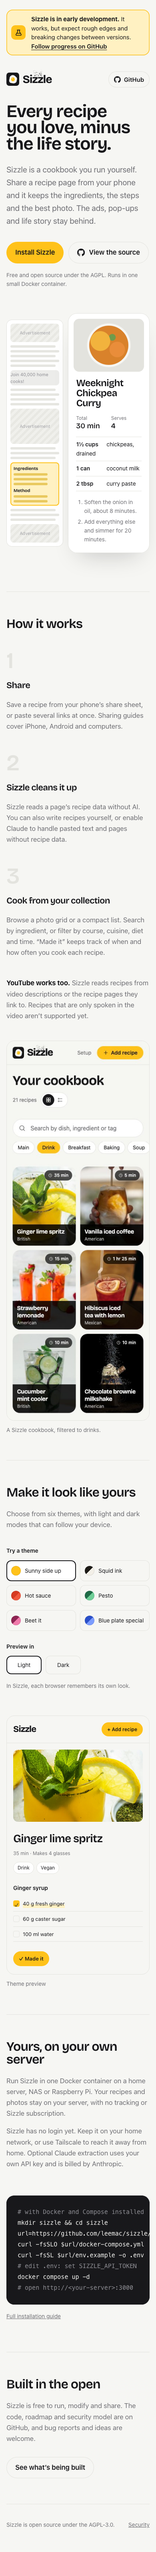
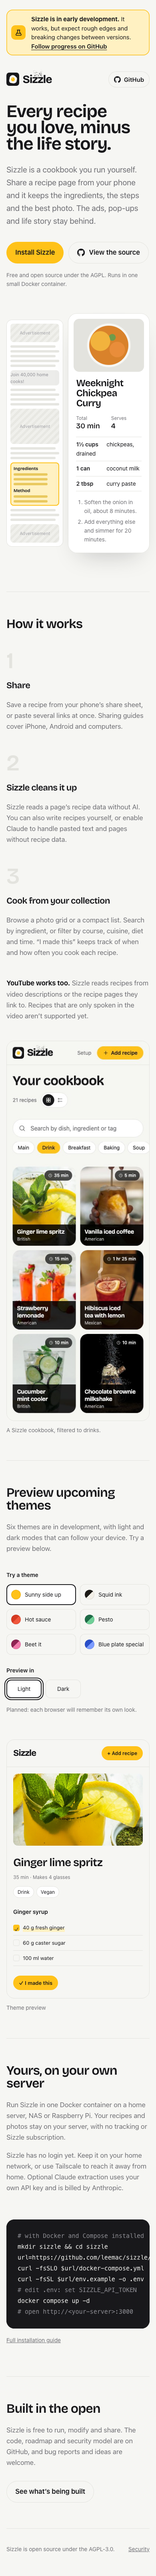
Refresh cookbook screenshots and align marketing documentation

Changed region(s): [[0.0308, 0.0, 0.9231, 0.9645], [0.3692, 0.2178, 0.4308, 0.2489], [0.7385, 0.0, 0.7692, 0.0311]]

diff --git a/site/index.html b/site/index.html
@@ -140,7 +140,7 @@
             <h3>Cook from your collection</h3>
             <p>
               Browse a photo grid or a compact list. Search by ingredient, or filter by course, cuisine, diet and time.
-              “Made it” keeps track of when and how often you cook each recipe.
+              “I made this” keeps track of when and how often you cook each recipe.
             </p>
           </li>
         </ol>
@@ -150,12 +150,12 @@
         </p>
         <figure class="cookbook">
           <picture class="cookbook-screen">
-            <source media="(max-width: 480px)" srcset="/images/cookbook-phone.jpg" width="390" height="1400" />
+            <source media="(max-width: 480px)" srcset="/images/cookbook-phone.jpg?v=2" width="390" height="1064" />
             <img
-              src="/images/cookbook.jpg"
+              src="/images/cookbook.jpg?v=2"
               alt="Sizzle’s cookbook with a recipe search, course filters and a photo gallery of drinks."
               width="1280"
-              height="1400"
+              height="1160"
               loading="lazy"
               decoding="async"
             />
@@ -165,8 +165,10 @@
       </section>
 
       <section class="themes" id="themes" aria-labelledby="themes-heading">
-        <h2 id="themes-heading">Make it look like yours</h2>
-        <p class="section-intro">Choose from six themes, with light and dark modes that can follow your device.</p>
+        <h2 id="themes-heading">Preview upcoming themes</h2>
+        <p class="section-intro">
+          Six themes are in development, with light and dark modes that can follow your device. Try a preview below.
+        </p>
         <div class="theme-explorer">
           <div class="theme-controls">
             <fieldset class="theme-options">
@@ -235,13 +237,13 @@
                 <label><input type="radio" name="preview-mode" value="dark" />Dark</label>
               </div>
             </fieldset>
-            <p class="fineprint">In Sizzle, each browser remembers its own look.</p>
+            <p class="fineprint">Planned: each browser will remember its own look.</p>
           </div>
           <figure class="theme-demo">
             <div
               class="theme-preview"
               role="img"
-              aria-label="Ginger lime spritz recipe preview with ingredients and a Made it button, in the selected theme and mode"
+              aria-label="Ginger lime spritz recipe preview with ingredients and an I made this button, in the selected theme and mode"
             >
               <div class="preview-bar" aria-hidden="true">
                 <span class="preview-logo">Sizzle</span>
@@ -259,7 +261,7 @@
                     <li><span class="preview-check"></span><span>60 g caster sugar</span></li>
                     <li><span class="preview-check"></span><span>100 ml water</span></li>
                   </ul>
-                  <span class="preview-made">✓ Made it</span>
+                  <span class="preview-made">✓ I made this</span>
                 </div>
               </div>
             </div>

diff --git a/AGENTS.md b/AGENTS.md
@@ -5,9 +5,11 @@ Guidance for AI coding agents (Claude Code, Codex, and others) and for humans wo
 
 ## What Sizzle is
 
-A self-hosted cookbook. You share a recipe page from your phone (or paste a link or text),
-Sizzle fetches it, has Claude extract a clean structured recipe — no ads, no life story — and
-stores it with its best photo. You browse your collection in a fast, photo-first gallery.
+A self-hosted cookbook. Share a recipe page from your phone or paste several links at once.
+Sizzle reads the page's structured recipe data and stores a clean recipe with its best photo —
+no ads, no life story. Write recipes manually, or enable optional Claude extraction for pasted
+text and pages without usable recipe data. YouTube imports read descriptions or linked recipe
+pages, not spoken audio. Browse a photo grid or compact list, save favorites and track what you cook.
 
 It is open source (AGPL-3.0) and runs on other people's servers. Every change must be safe to
 ship to a stranger's home network.
@@ -17,7 +19,7 @@ ship to a stranger's home network.
 - Rails 8.1 (Ruby 3.3) with SQLite for everything: app data, Solid Queue (jobs), Solid Cache.
 - React 19 + TypeScript via Inertia.js 3 — no separate API for the UI; controllers render pages.
 - Vite (vite_rails) and Tailwind CSS 4. Design tokens live in `app/frontend/entrypoints/application.css`.
-- Claude via the official `anthropic` gem, structured outputs only.
+- Local schema.org Recipe extraction; optional Claude via the official `anthropic` gem, structured outputs only.
 - libvips for images, Active Storage on local disk. Full-text search with SQLite FTS5.
 
 ## Map
@@ -26,10 +28,12 @@ ship to a stranger's home network.
 |------|------------------|
 | `app/services/safe_http.rb` | **The only way to fetch untrusted URLs.** SSRF guard: public IPs only, pinned sockets, re-validated redirects, size caps. |
 | `app/services/page_scraper.rb` | HTML → readable text, schema.org Recipe data, ranked image candidates. |
+| `app/services/structured_recipe_extractor.rb` | Reads schema.org Recipe data locally, without AI. Output still goes through `RecipeDraft`. |
+| `app/services/youtube_video.rb` | YouTube descriptions and linked recipe pages, fetched through `SafeHttp`; no audio transcription. |
 | `app/services/recipe_extractor.rb` | Claude call: prompt, JSON schema, error mapping. |
-| `app/services/recipe_draft.rb` | Validates and clamps Claude's output before it's saved. **All extracted fields go through here.** |
+| `app/services/recipe_draft.rb` | Validates and clamps extracted recipe data before it's saved. **All extracted fields go through here.** |
 | `app/services/recipe_images.rb` | Downloads chosen images, validates magic bytes, re-encodes to WebP. |
-| `app/services/import_pipeline.rb` | Orchestrates one import: fetch → extract → save. |
+| `app/services/import_pipeline.rb` | Orchestrates one import: fetch → local extraction → optional Claude fallback → validate → save. |
 | `app/jobs/import_job.rb` | Runs the pipeline in the background with retries for transient Claude errors. |
 | `app/models/recipe.rb` (+ `recipe/`) | Recipe, FTS search (`Searchable`), gallery filters and facets (`Filterable`). |
 | `app/models/import.rb` | An import request and its status lifecycle. |
@@ -50,6 +54,7 @@ bin/ci               # everything CI runs: style, lint, types, security scans, a
 bin/secret-scan      # gitleaks over every commit (also runs as a pre-commit hook after bin/setup)
 bin/rails test       # Ruby tests only
 npm test             # frontend unit tests (Vitest)
+npm run test:browser # Playwright browser tests (npx playwright install chromium once)
 npm run check        # TypeScript
 npm run format       # Prettier (frontend); bin/rubocop -a for Ruby
 ```

diff --git a/README.md b/README.md
@@ -31,14 +31,16 @@
 ## Features
 
 - **Share from anywhere.** One tap in your iPhone's share sheet sends a recipe page to Sizzle. Or
-  paste a link, or the recipe text.
+  paste several links at once, or the recipe text. Sharing guides cover iPhone, Android and computers.
 - **YouTube too.** Share a cooking video and Sizzle reads the recipe from its description, or from
   the recipe page it links to. Recipes that are only spoken in the video aren't supported yet.
 - **Just the recipe.** Ingredients, steps and the best photo. No ads, pop-ups or life story.
 - **No AI required.** Sizzle reads a site's recipe data, or you write the recipe yourself. Add an
   Anthropic API key to handle pages without recipe data and pasted text.
-- **Fast to browse.** A photo-first gallery with full-text search and filters for course, cuisine,
-  diet, main ingredient and time.
+- **Fast to browse.** A photo grid or compact list with full-text search and filters for course,
+  cuisine, diet, main ingredient and time.
+- **Remember what you cook.** Save favorites and use “I made this” to track when and how often
+  you cook each recipe.
 - **Yours.** One small container with SQLite on your own server. No accounts, no tracking.
 
 ## Install
